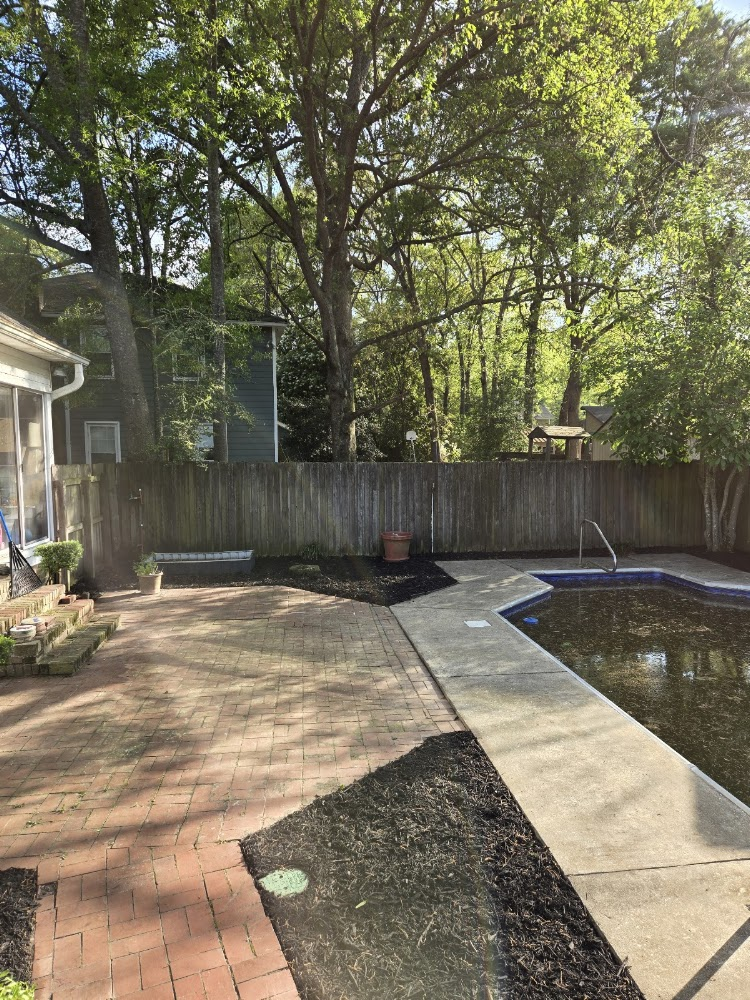
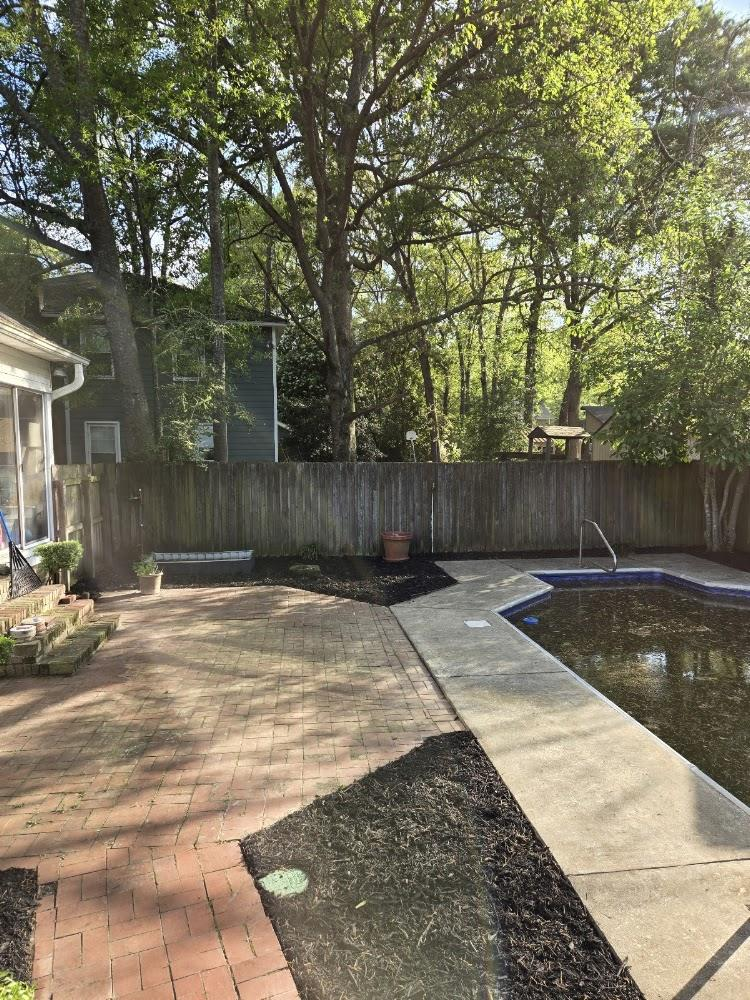
Preview: barefoot-yards

Changed region(s): [[0.7973, 0.062, 0.828, 0.093]]

diff --git a/barefoot-yards/index.html b/barefoot-yards/index.html
@@ -108,10 +108,23 @@ footer .wrap{display:flex;justify-content:space-between;gap:20px;flex-wrap:wrap;
 .bar a.alt{background:var(--card);color:var(--ink);border:1px solid var(--line)}
 @media (max-width:900px){.hgrid{grid-template-columns:1fr}.gal{grid-template-columns:1fr 1fr;grid-auto-rows:150px}nav{display:none}.grid,.steps{grid-template-columns:1fr 1fr}.split,.quote{grid-template-columns:1fr}.trust .wrap{grid-template-columns:1fr 1fr}.trust div:nth-child(3){border-left:0}.trust div:nth-child(n+3){border-top:1px solid var(--line)}}
 @media (max-width:600px){.grid,.steps{grid-template-columns:1fr}.hero .wrap{padding:56px 20px 64px}section{padding:64px 0}.quote{padding:30px 22px;border-radius:20px}.call{display:none}.bar{display:flex}.logo small{display:none}}
+.pv a{color:#f5b83d;font-weight:700;text-decoration:none;margin-left:6px}
+.claim{background:var(--ink);color:#f2efe8;padding:72px 0}
+.claim h2{color:#fff;margin:10px 0 12px}.claim p{color:#c9c5bc;max-width:52ch;margin:0}
+.cl{display:grid;grid-template-columns:1.1fr 1fr;gap:40px;align-items:center}
+.t3{display:grid;grid-template-columns:repeat(3,1fr);gap:10px;margin-top:26px}
+.t3 div{border:1px solid rgba(255,255,255,.16);border-radius:14px;padding:14px}
+.t3 b{display:block;font-size:24px;color:#fff}.t3 span{font-size:13px;color:#c9c5bc;line-height:1.35;display:block;margin-top:4px}
+.clb{display:grid;gap:10px}
+.clb a{display:block;text-align:center;padding:16px;border-radius:12px;font-weight:700;text-decoration:none;border:1px solid rgba(255,255,255,.25);color:#fff}
+.clb a.go{background:#f5b83d;color:#14140f;border-color:#f5b83d}
+.clb small{color:#9e9a91;text-align:center;font-size:13px}
+@media (max-width:900px){.cl{grid-template-columns:1fr}.t3{grid-template-columns:1fr 1fr 1fr}}
+@media (max-width:600px){.claim{padding:56px 0 110px}.t3 b{font-size:20px}}
 </style>
 </head>
 <body>
-<div class="pv"><b>Free preview</b> built for Barefoot Yards by Cole Ormont · Not live yet</div>
+<div class="pv"><b>Free preview</b> built for Barefoot Yards by Cole Ormont · Not live yet<a href="#claim">Make it yours ↓</a></div>
 <header><div class="wrap">
 <a class="logo" href="#top"><span class="mark">BY</span><span><b>Barefoot Yards</b><small>Yard care · Florence, SC</small></span></a>
 <nav><a href="#services">Services</a><a href="#how">How it works</a><a href="#area">Service area</a><a href="#faq">FAQ</a></nav>
@@ -174,6 +187,12 @@ footer .wrap{display:flex;justify-content:space-between;gap:20px;flex-wrap:wrap;
 </form>
 </div></div></section>
 
+<section id="claim" class="claim"><div class="wrap"><div class="cl">
+<div><div class="eyebrow" style="color:#f5b83d">For Barefoot Yards</div><h2>Like it? It can be live this week.</h2>
+<p>This is a free preview built for your business. Keep it as is or tell Cole what to change. Your domain, your site, you own it.</p>
+<div class="t3"><div><b>$399</b><span>This page, live on your own domain</span></div><div><b>$650</b><span>Full site with your photos and gallery</span></div><div><b>$850+</b><span>Everything plus online booking</span></div></div></div>
+<div class="clb"><a class="go" href="sms:+15088077554?&body=Hi%20Cole%2C%20I%20saw%20the%20preview%20you%20made%20for%20Barefoot%20Yards.%20I%27m%20interested.">Text Cole about this site</a><a href="tel:+15088077554">Call Cole · (508) 807-7554</a><small>Half to start, half when it's live. No contracts.</small></div>
+</div></div></section>
 <footer><div class="wrap"><span><b style="color:var(--ink)">Barefoot Yards</b> · Yard care · Florence, SC</span><span><a href="tel:+18436108841">843-610-8841</a></span></div></footer>
 <div class="bar"><a href="tel:+18436108841">Call</a><a class="alt" href="#quote">Free quote</a></div>
 <script>
